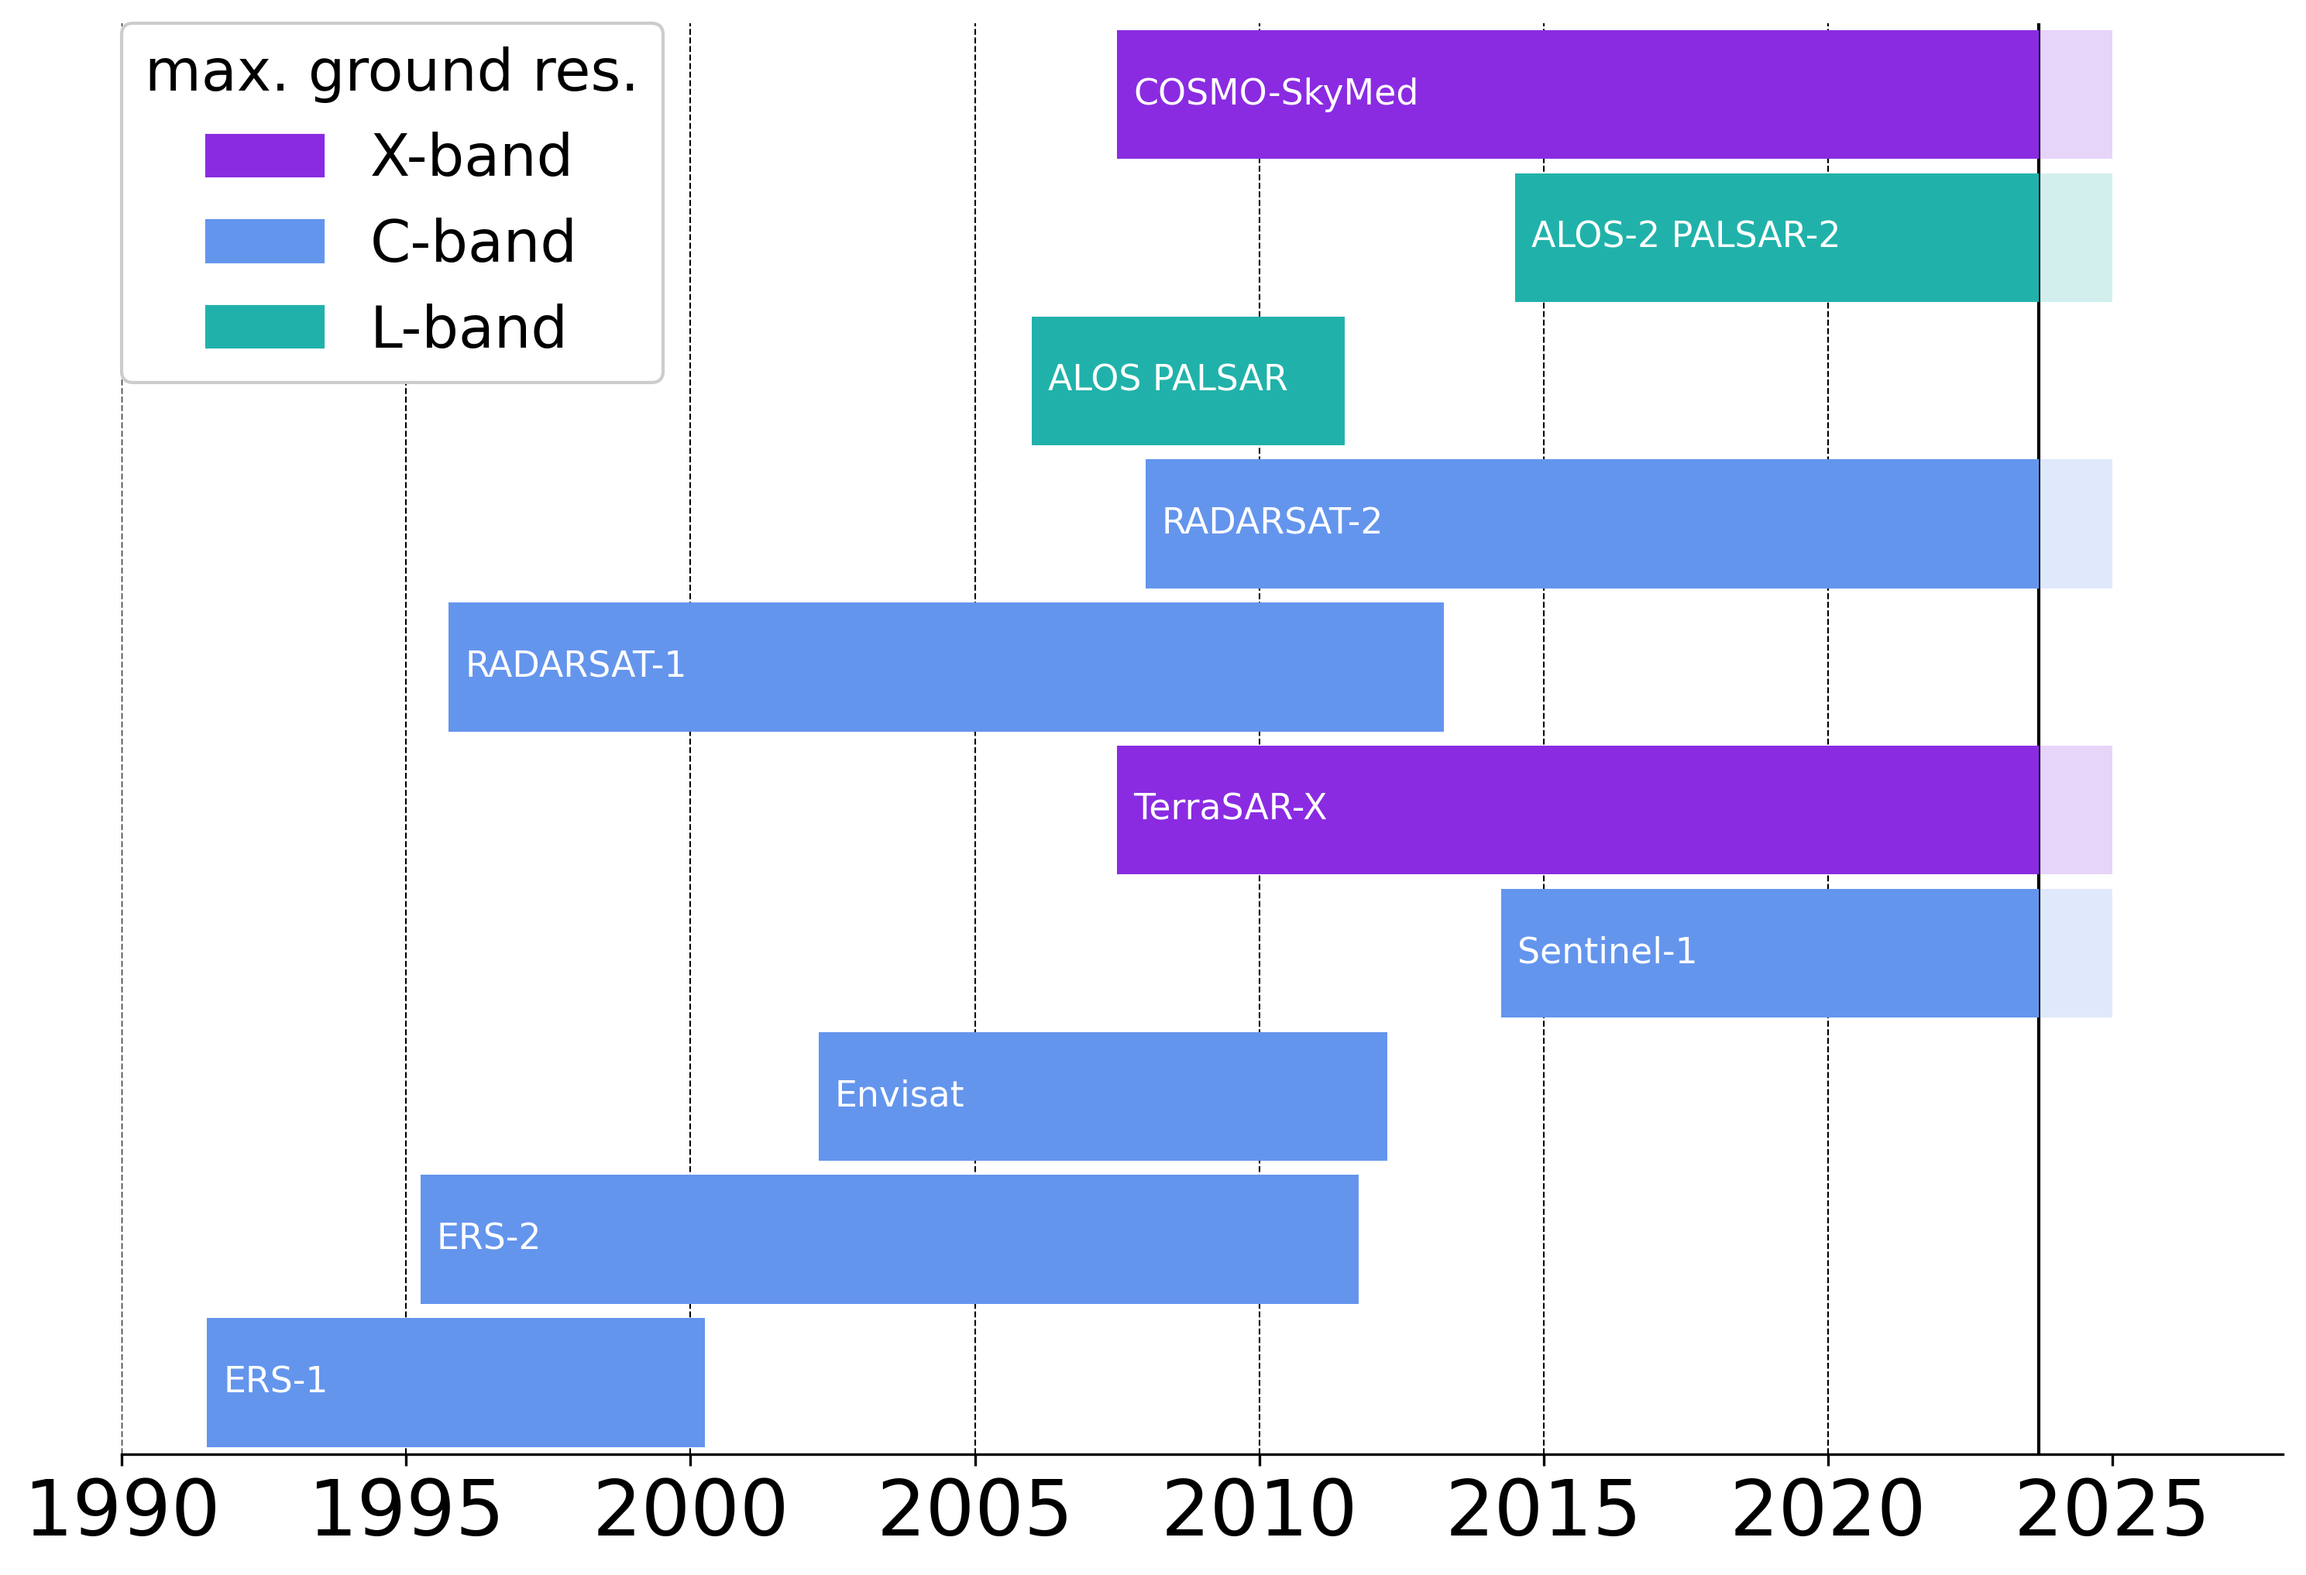
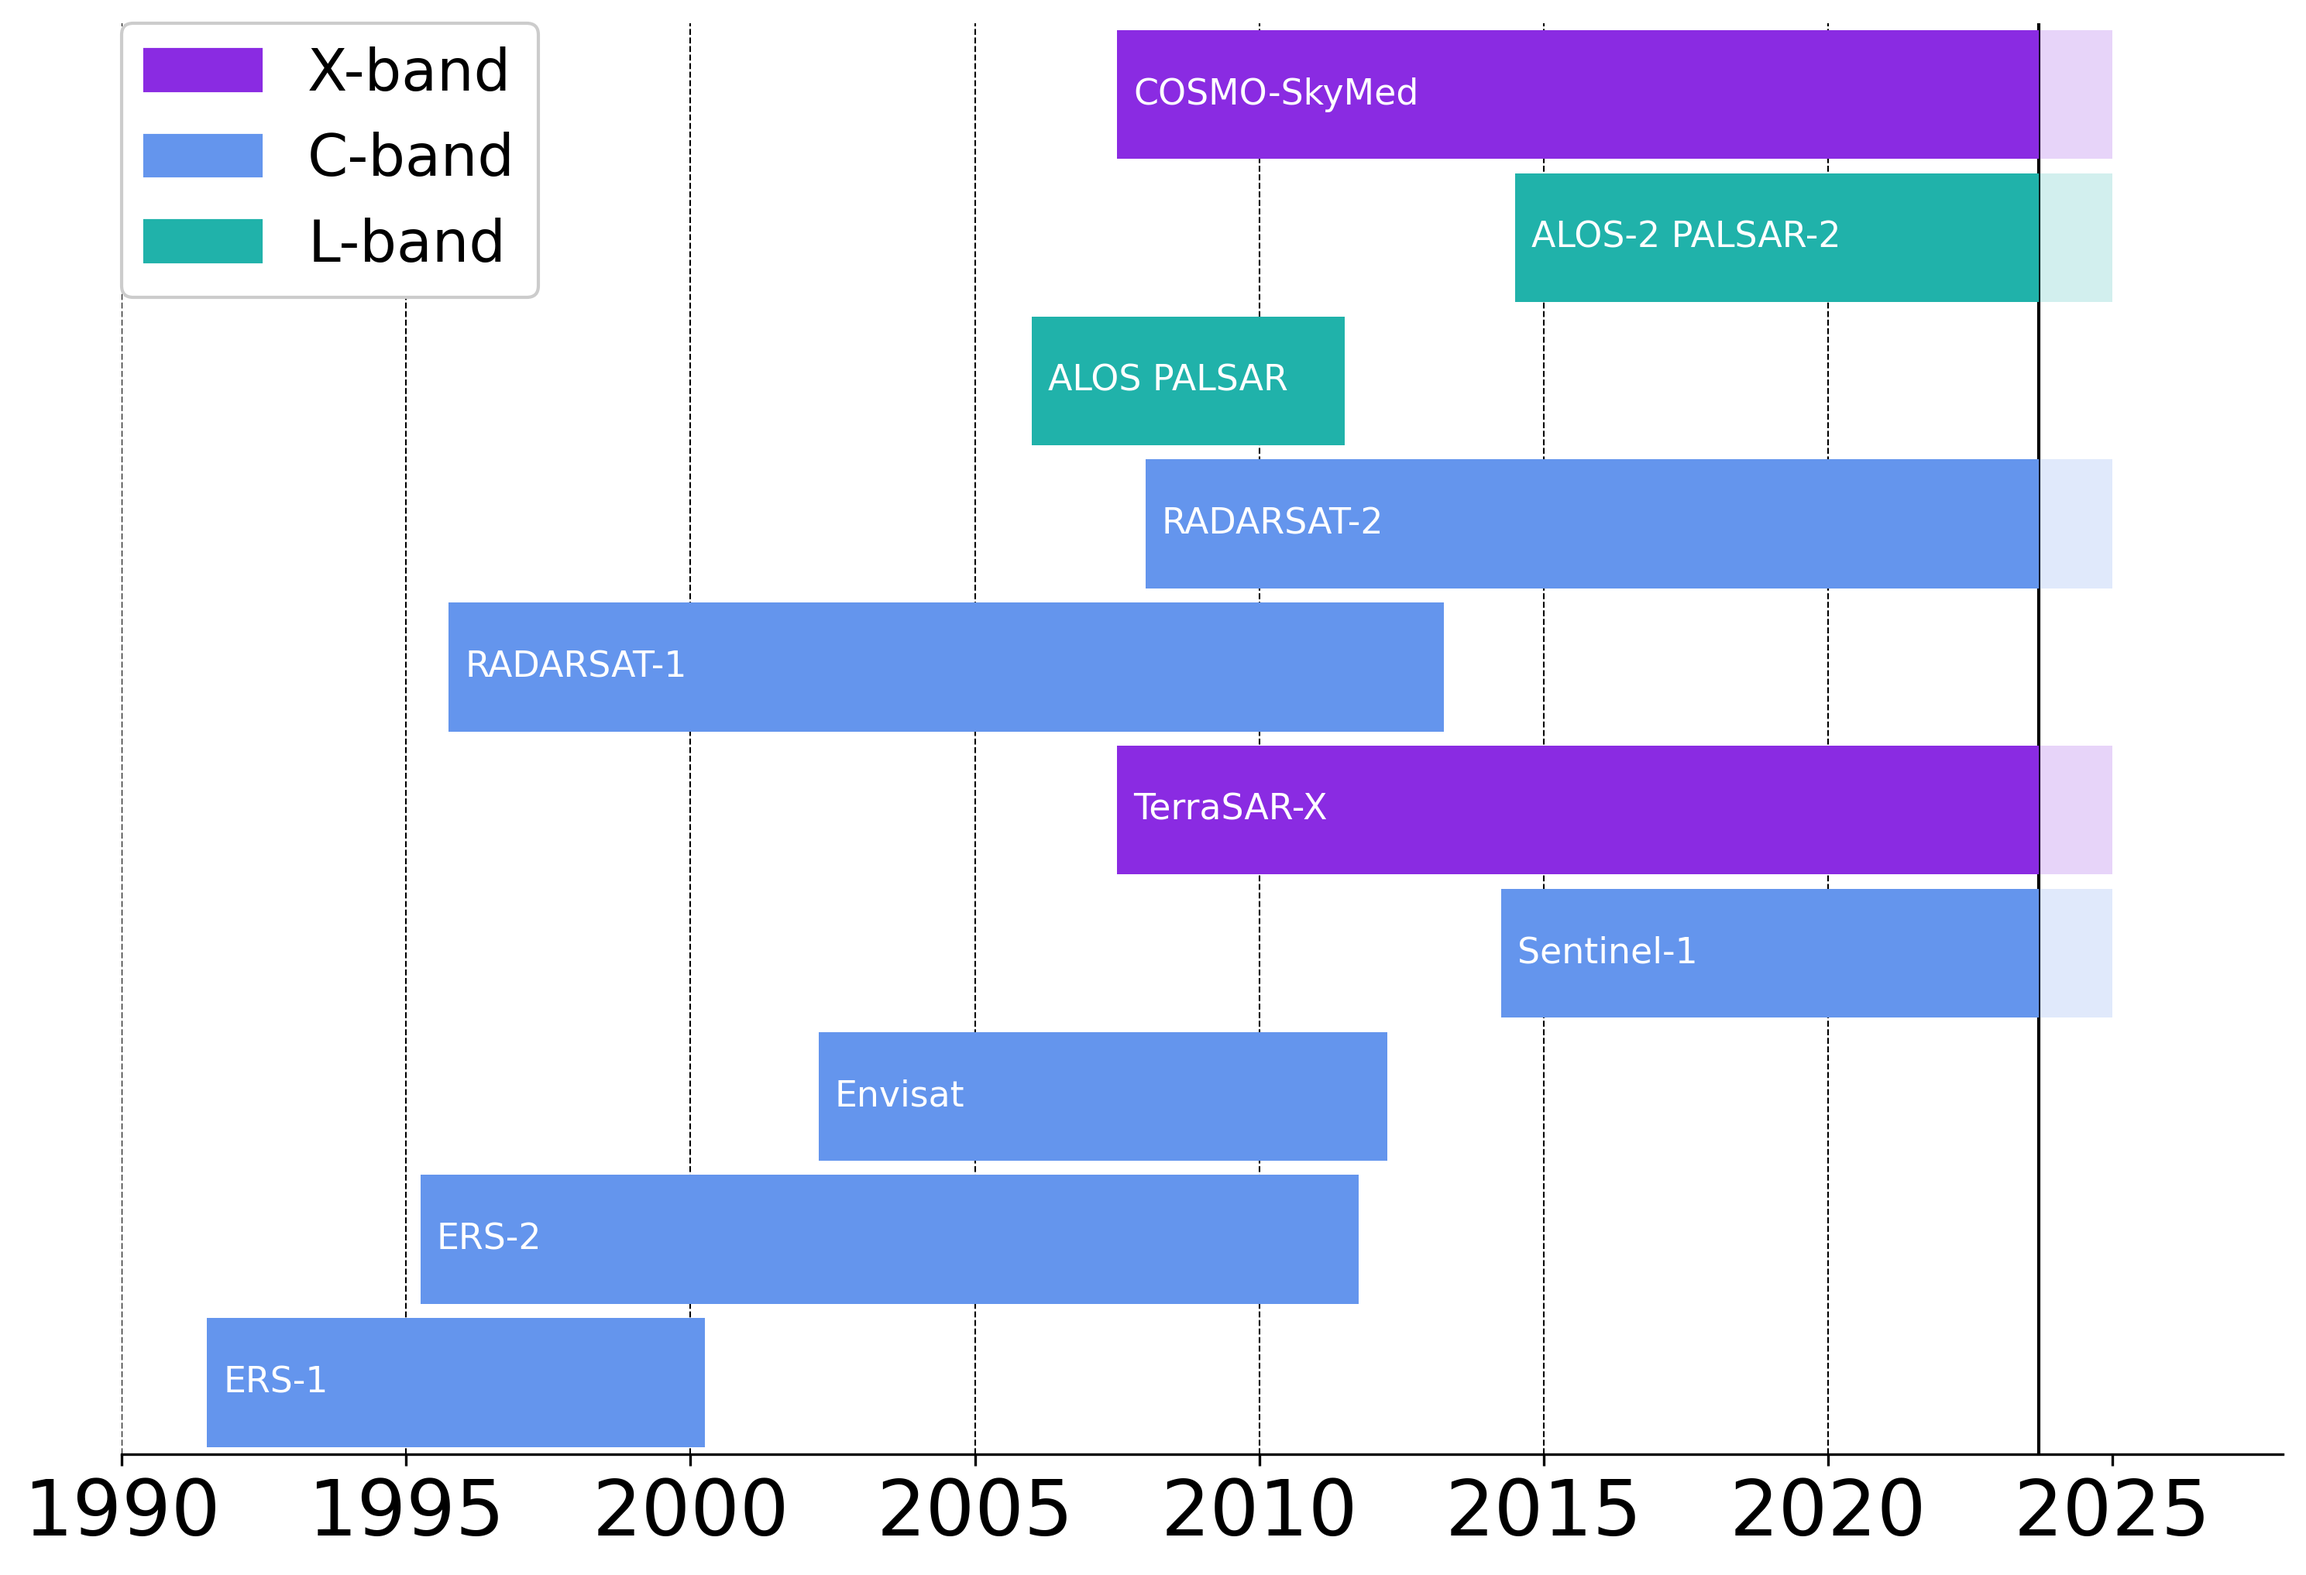
remove legend title

Changed region(s): [[0.0625, 0.031, 0.2812, 0.2478]]

diff --git a/scripts/sar_mission_diagram.py b/scripts/sar_mission_diagram.py
@@ -12,7 +12,7 @@ def make_legend(ax, names, colors):
         patches.append(mpatches.Patch(color=c, label=n))
 
     ax.legend(loc='upper left', bbox_to_anchor=(0, 1), framealpha=1, handles=patches, 
-              title='max. ground res.', title_fontsize=18, fontsize=18, borderaxespad=0)
+              fontsize=18, borderaxespad=0)
 
 
 # create a rectangular patch, given the satellite data
